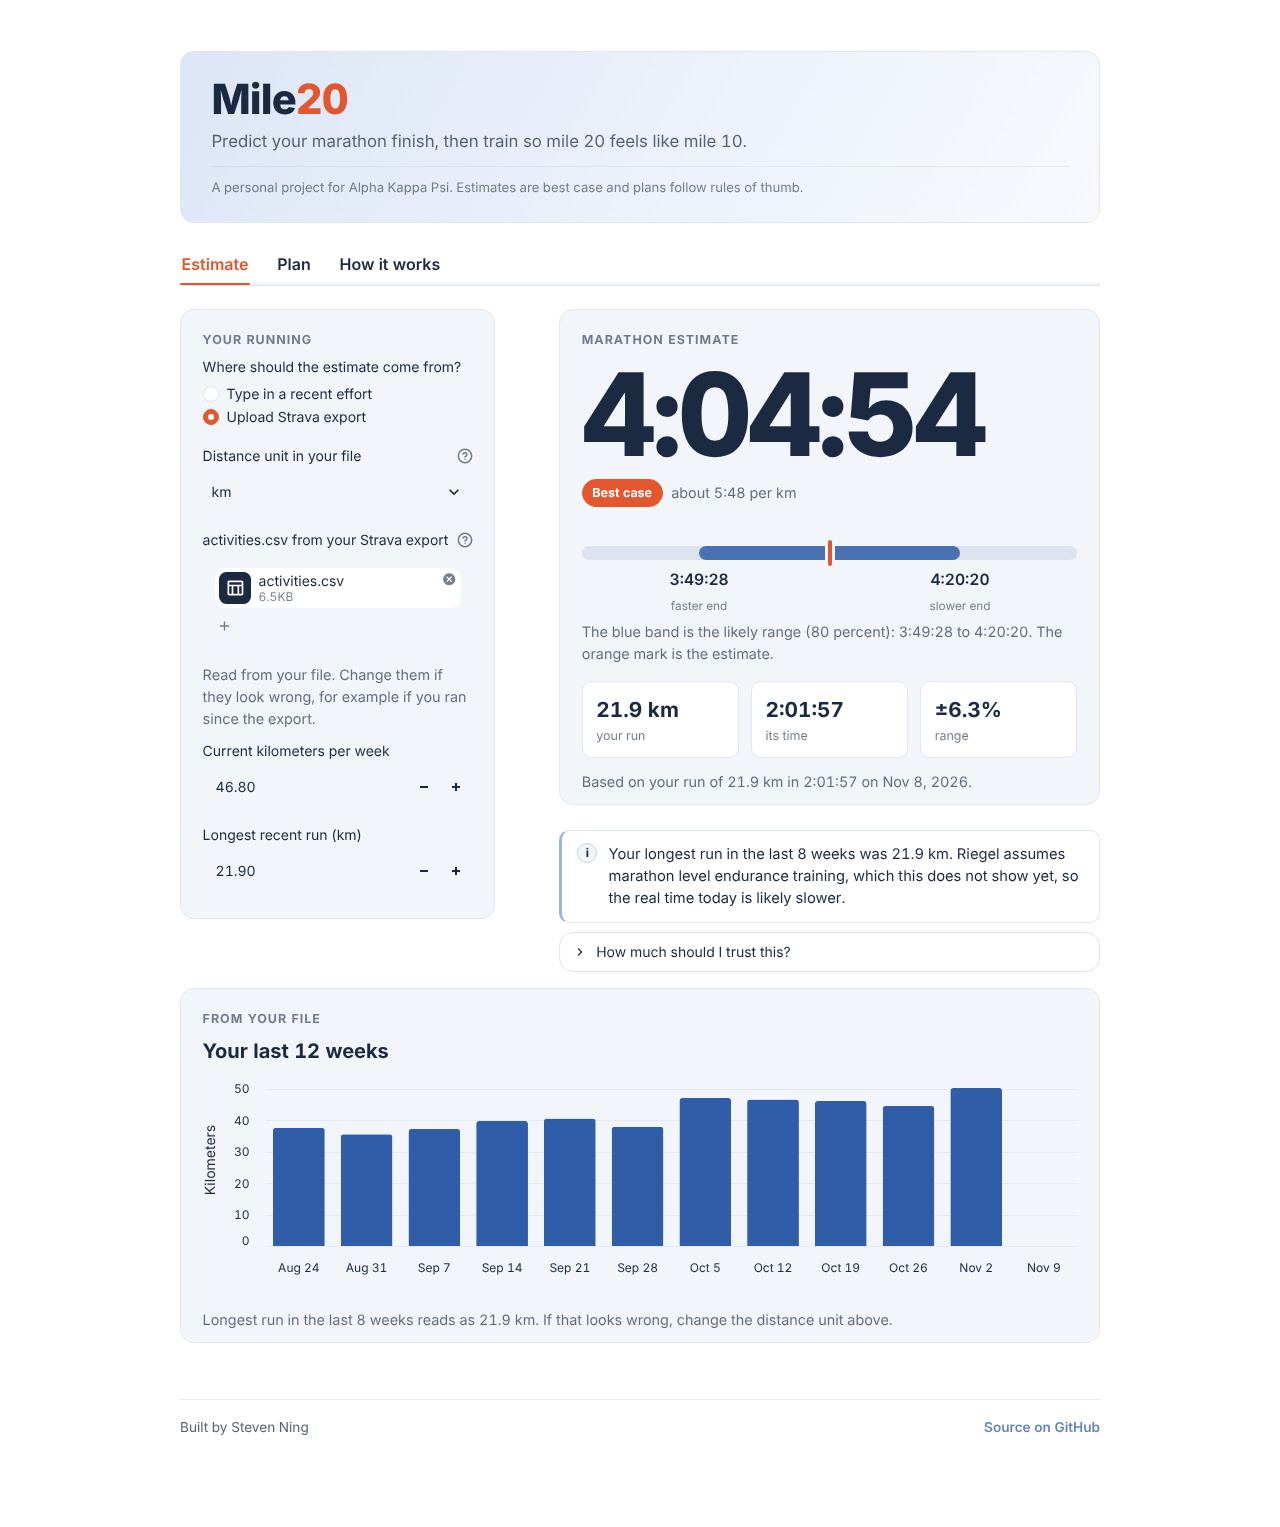
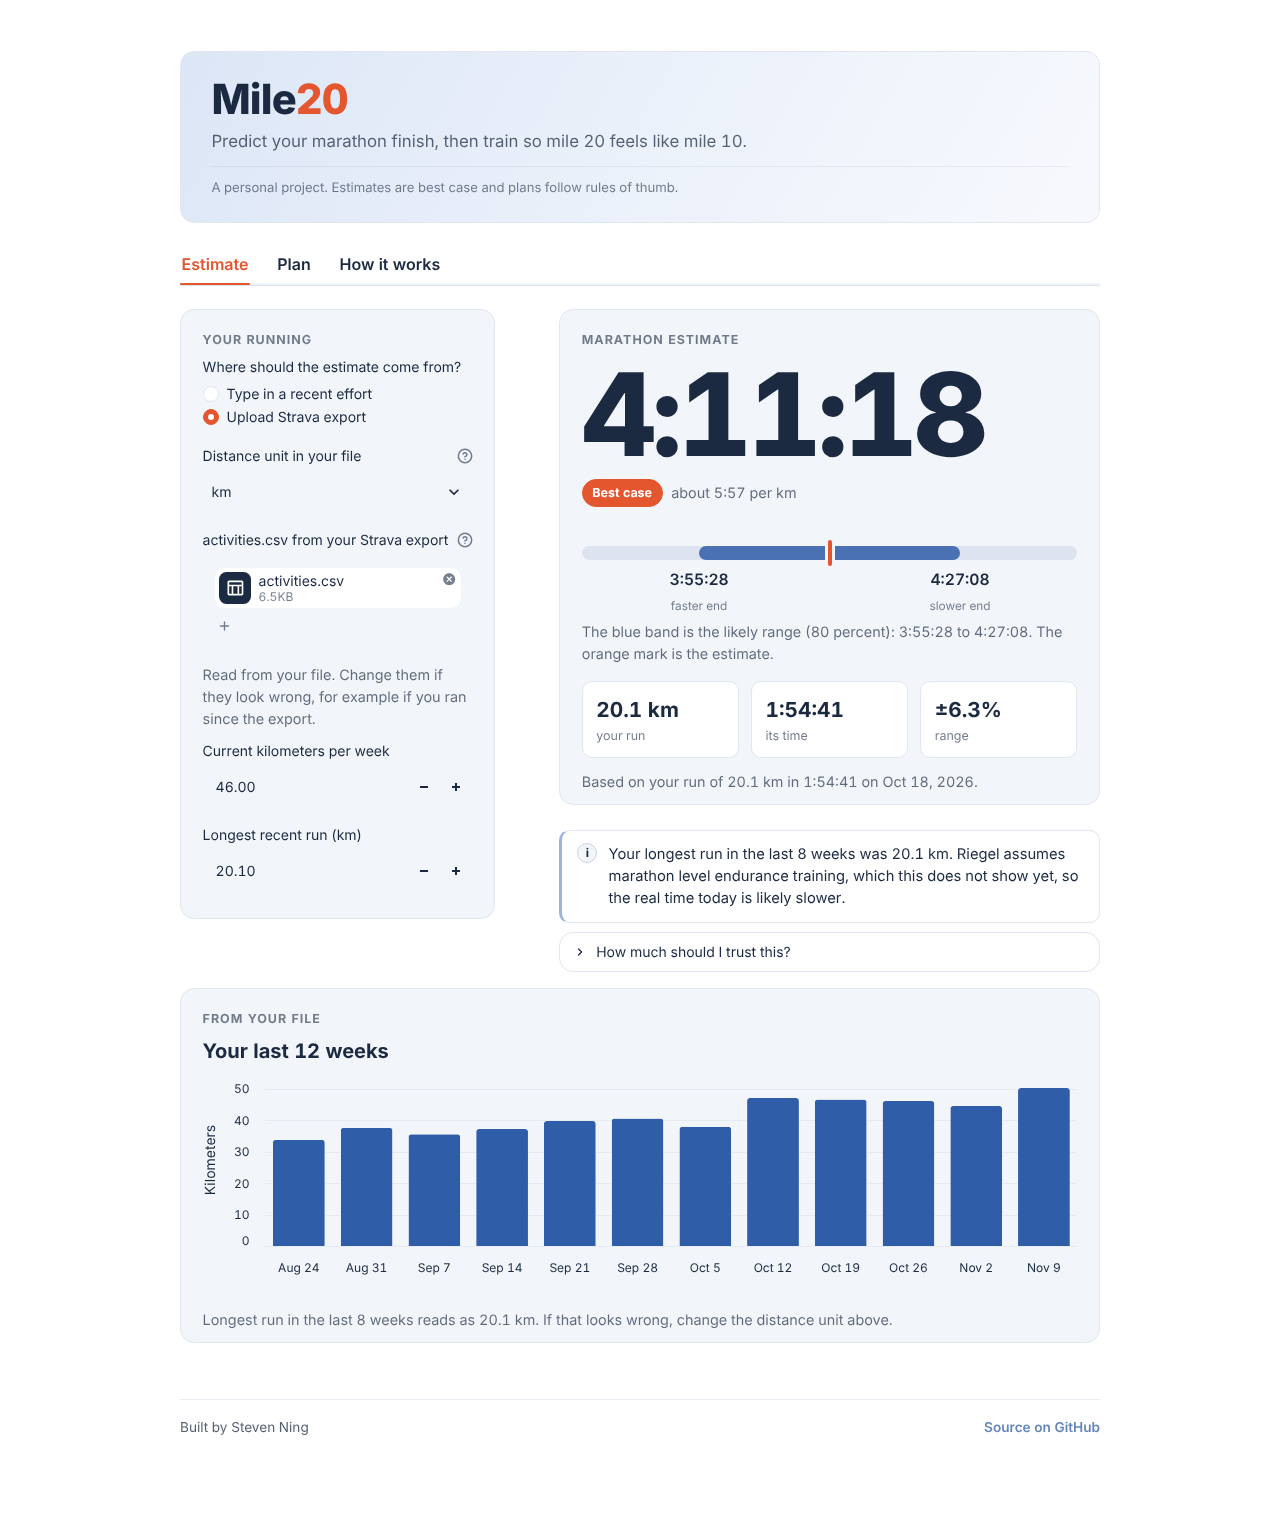
Remove the organization mention from the app header and README
The header line now reads "A personal project. Estimates are best case and
plans follow rules of thumb." and the README intro says "A personal project."
Screenshots refreshed so they match, using fake demo data only.

Claude-Session: https://claude.ai/code/session_01DypmYEvbK5YYfMocHb6ErS

diff --git a/app.py b/app.py
@@ -35,7 +35,7 @@ TAGLINE = "Predict your marathon finish, then train so mile 20 feels like mile 1
 BOSTON_FILE = Path(__file__).parent / "data" / "raw" / "Athletes.csv"
 ICON_FILE = Path(__file__).parent / "assets" / "mile20_icon.png"
 REPO_URL = "https://github.com/stevenning123/marathon_planner"
-SUBLINE = "A personal project for Alpha Kappa Psi. Estimates are best case and plans follow rules of thumb."
+SUBLINE = "A personal project. Estimates are best case and plans follow rules of thumb."
 FONT = "Inter"
 CARD_RADIUS, INNER_RADIUS = "14px", "10px"
 

diff --git a/README.md b/README.md
@@ -6,7 +6,7 @@ Live app: [mile20.streamlit.app](https://mile20.streamlit.app)
 
 ![Mile20 estimate screen](docs/screenshots/desktop_estimate.png)
 
-A personal project for the Alpha Kappa Psi pledgeship. The goal is to predict a runner's marathon finish time from real race data, beat a classic baseline formula with a machine learning model, and build a training plan that adjusts to how each week actually goes.
+A personal project. The goal is to predict a runner's marathon finish time from real race data, beat a classic baseline formula with a machine learning model, and build a training plan that adjusts to how each week actually goes.
 
 ## Week 4: the finished app
 
